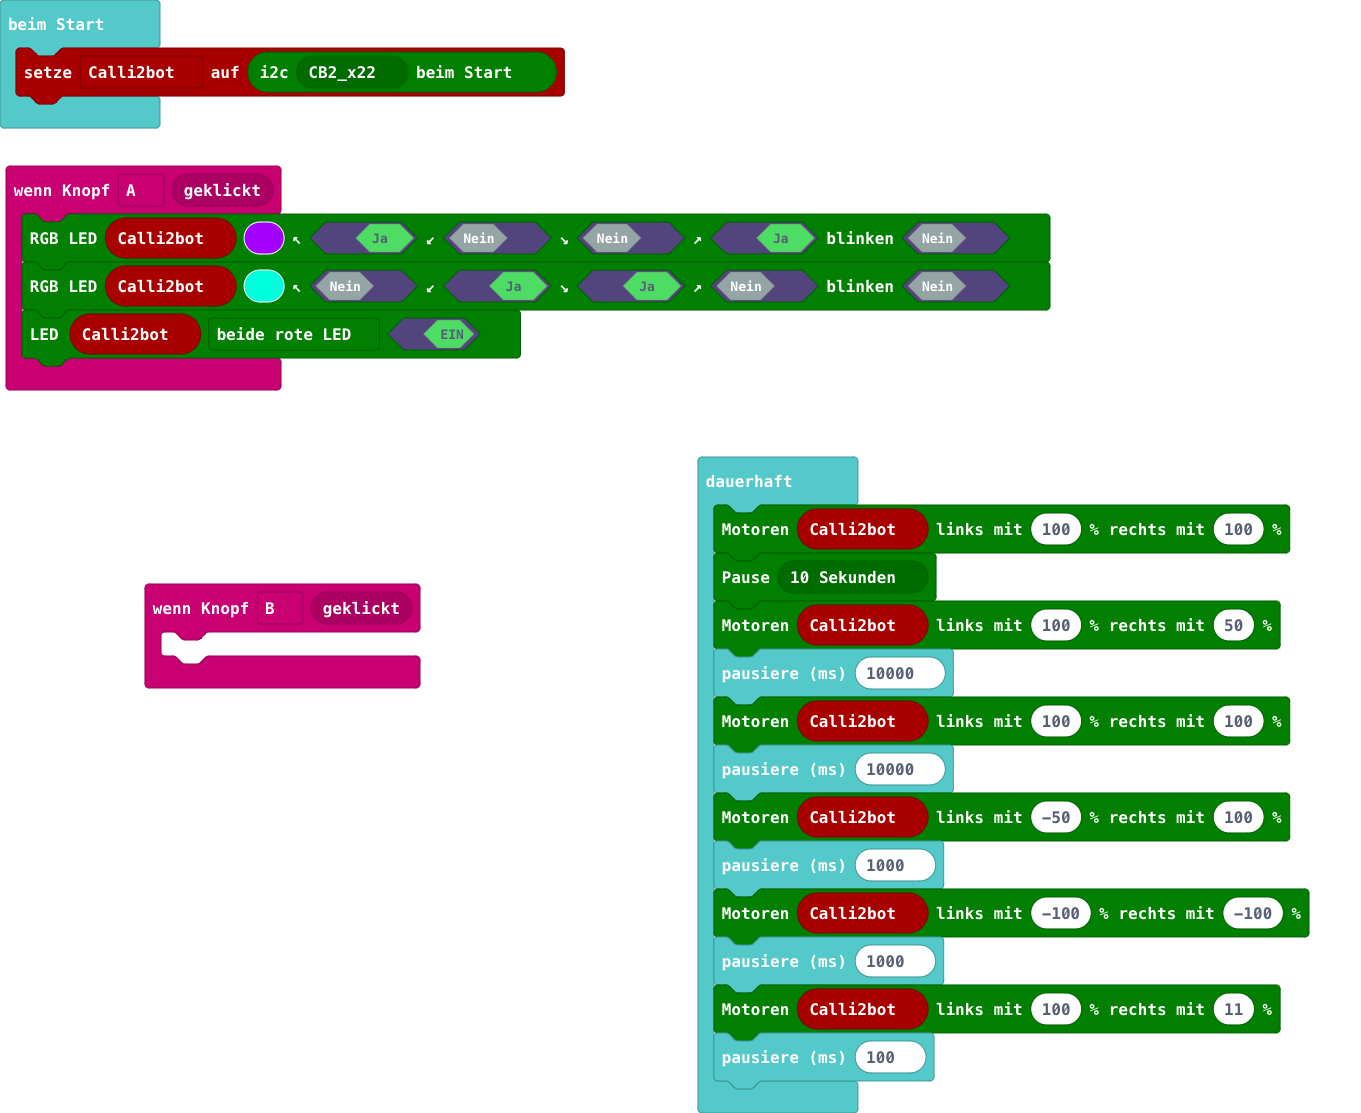
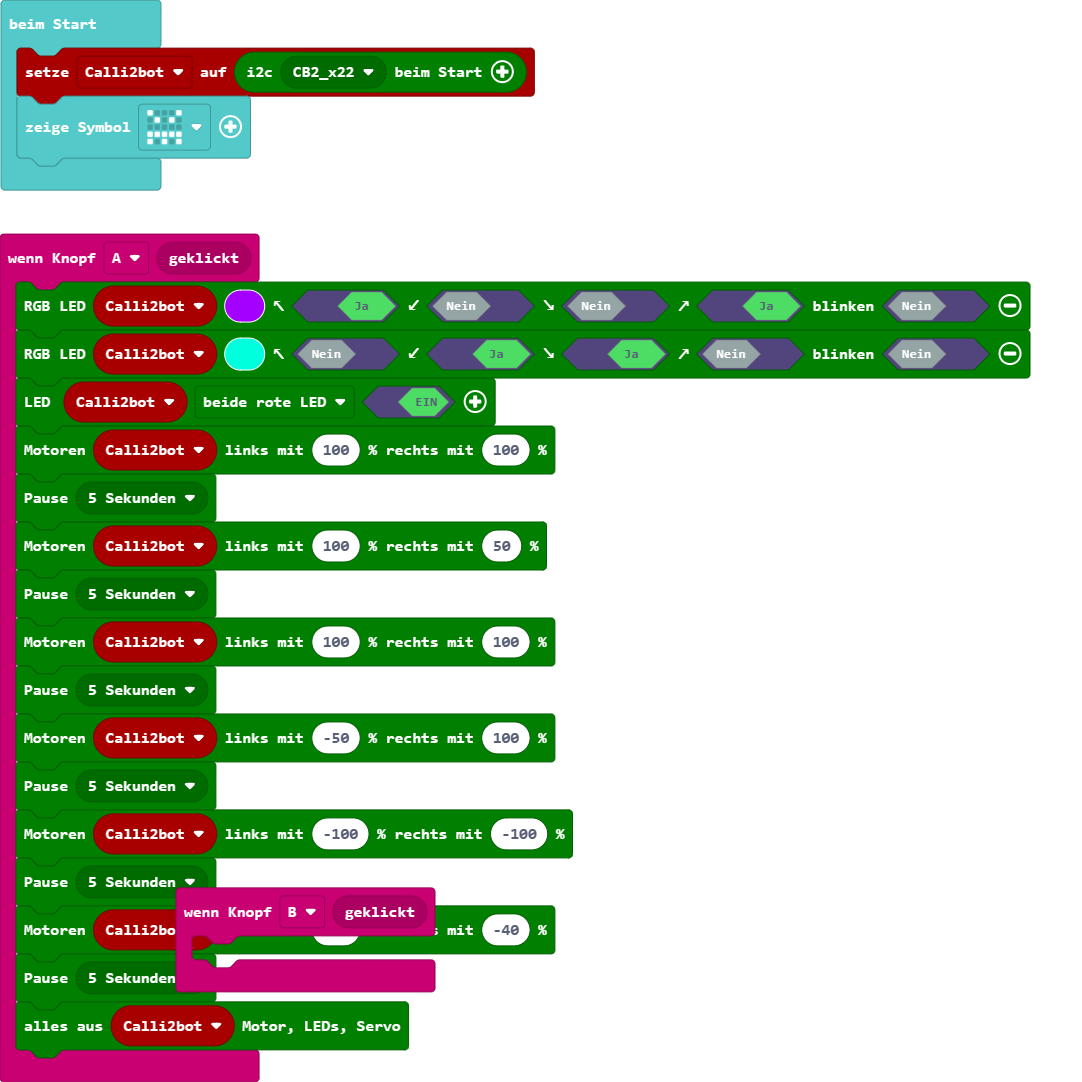
Aktualisiere main.blocks, main.ts

diff --git a/main.ts b/main.ts
@@ -2,23 +2,23 @@ input.onButtonEvent(Button.A, input.buttonEventClick(), function () {
     Calli2bot.setRgbLed3(0xa300ff, true, false, false, true, false)
     Calli2bot.setRgbLed3(0x00ffdc, false, true, true, false, false)
     Calli2bot.setLed1(calli2bot.eLed.redb, true)
+    Calli2bot.setMotoren2(100, 100)
+    calli2bot.pause(calli2bot.calli2bot_ePause(calli2bot.ePause.p5))
+    Calli2bot.setMotoren2(100, 50)
+    calli2bot.pause(calli2bot.calli2bot_ePause(calli2bot.ePause.p5))
+    Calli2bot.setMotoren2(100, 100)
+    calli2bot.pause(calli2bot.calli2bot_ePause(calli2bot.ePause.p5))
+    Calli2bot.setMotoren2(-50, 100)
+    calli2bot.pause(calli2bot.calli2bot_ePause(calli2bot.ePause.p5))
+    Calli2bot.setMotoren2(-100, -100)
+    calli2bot.pause(calli2bot.calli2bot_ePause(calli2bot.ePause.p5))
+    Calli2bot.setMotoren2(-40, -40)
+    calli2bot.pause(calli2bot.calli2bot_ePause(calli2bot.ePause.p5))
+    Calli2bot.i2cRESET_OUTPUTS()
 })
 input.onButtonEvent(Button.B, input.buttonEventClick(), function () {
 	
 })
 let Calli2bot: calli2bot.Calli2bot = null
 Calli2bot = calli2bot.beimStart(calli2bot.calli2bot_eADDR(calli2bot.eADDR.CB2_x22))
-basic.forever(function () {
-    Calli2bot.setMotoren2(100, 100)
-    calli2bot.pause(calli2bot.calli2bot_ePause(calli2bot.ePause.p10))
-    Calli2bot.setMotoren2(100, 50)
-    basic.pause(10000)
-    Calli2bot.setMotoren2(100, 100)
-    basic.pause(10000)
-    Calli2bot.setMotoren2(-50, 100)
-    basic.pause(1000)
-    Calli2bot.setMotoren2(-100, -100)
-    basic.pause(1000)
-    Calli2bot.setMotoren2(100, 11)
-    basic.pause(100)
-})
+basic.showIcon(IconNames.Angry)
